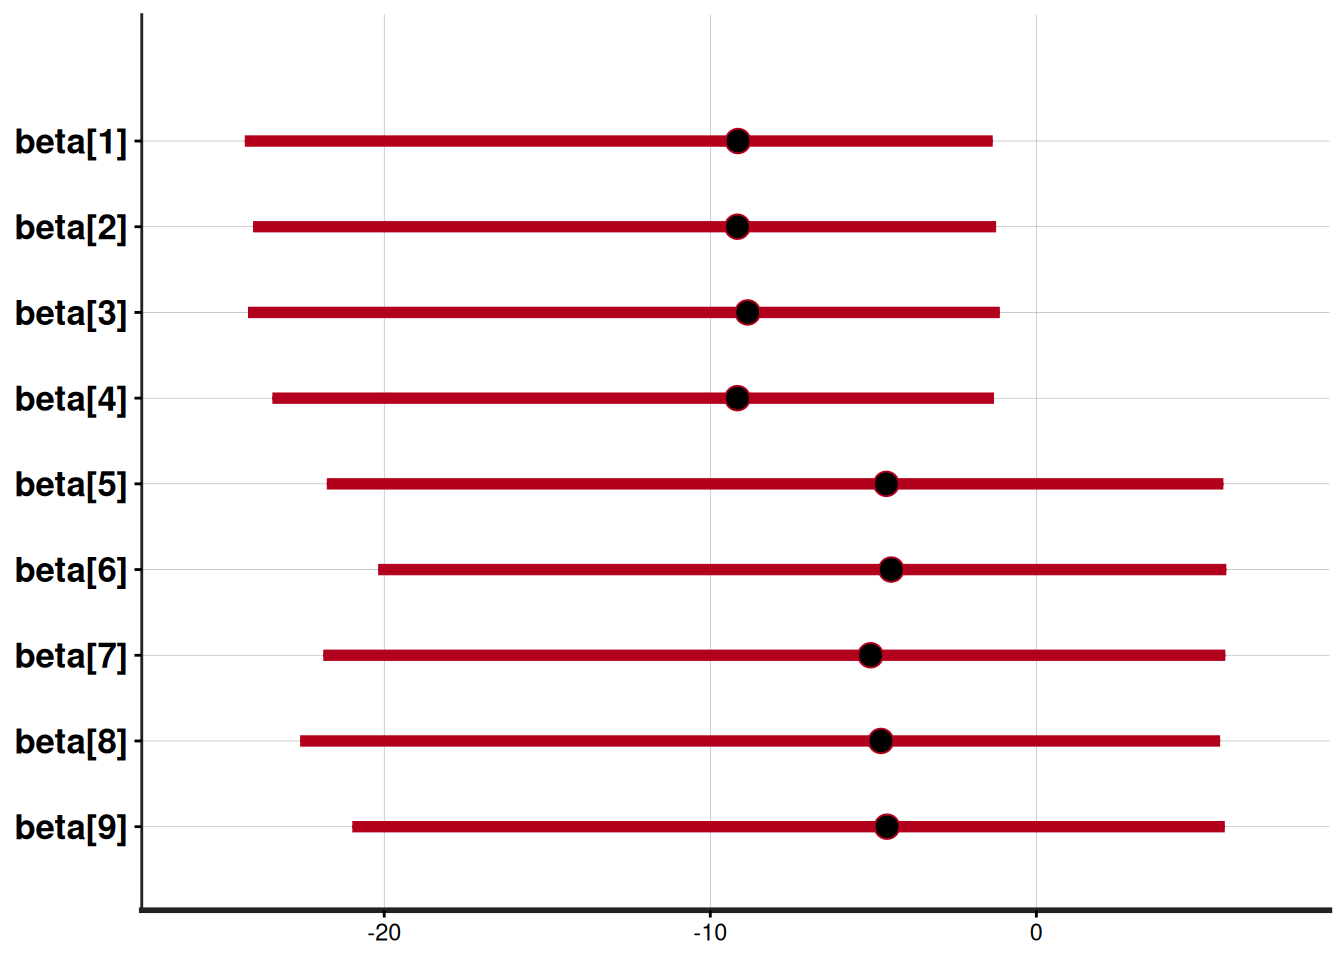
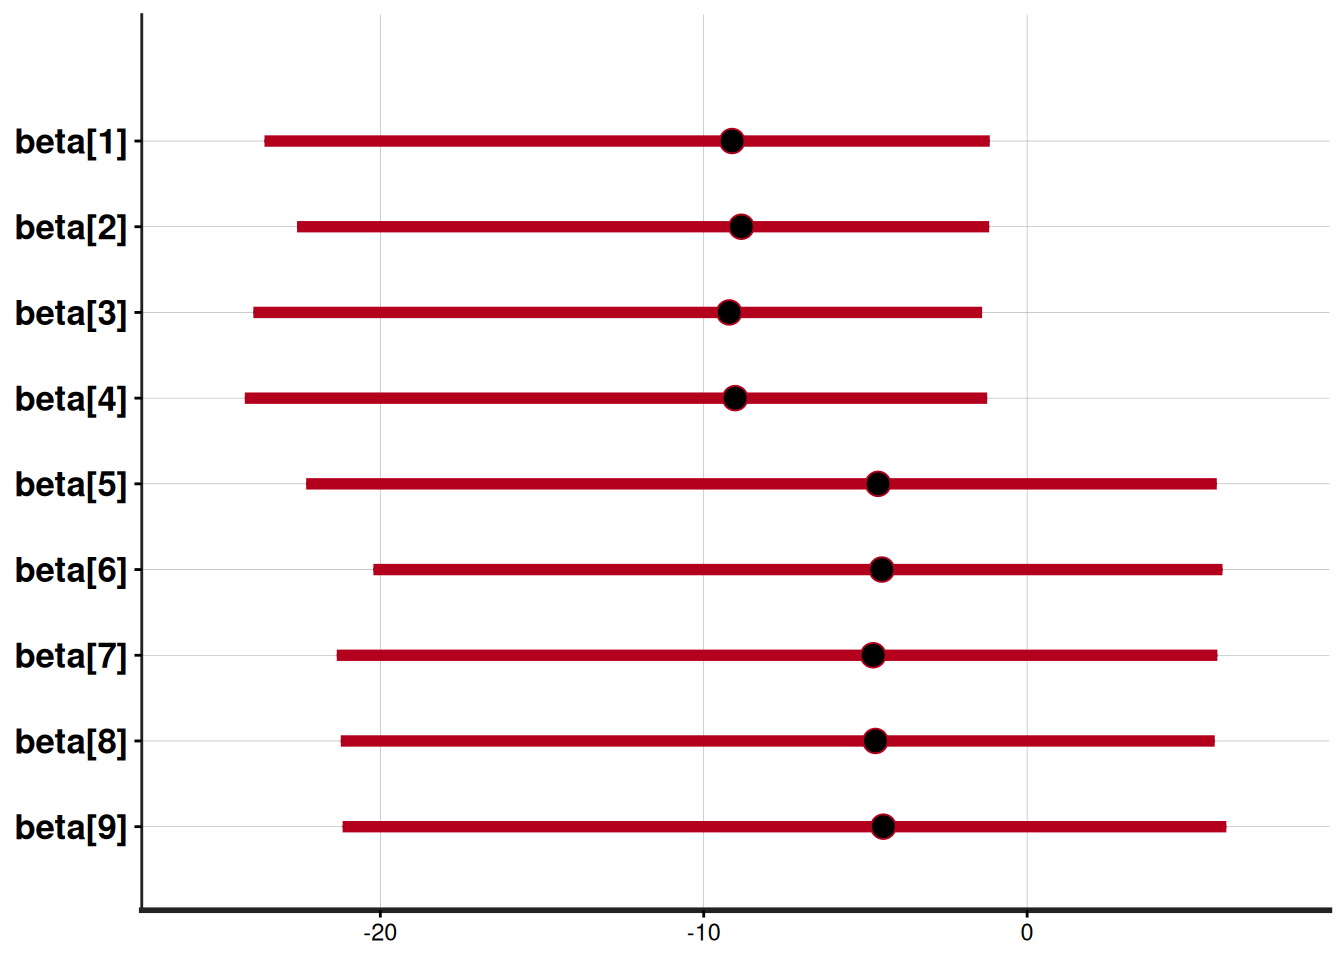
+temp

diff --git a/_book/models.html b/_book/models.html
@@ -769,25 +769,25 @@ $lp__
 <span id="cb21-20"><a href="#cb21-20" aria-hidden="true" tabindex="-1"></a><span class="fu">lapply</span>(resumo, head)</span></code></pre></div><button title="Copiar para a área de transferência" class="code-copy-button"><i class="bi"></i></button></div>
 <div class="cell-output cell-output-stdout">
 <pre><code>$alpha
-         media   mediana   hpd_min   hpd_max
-[1,] 0.3127242 0.3092214 0.2142132 0.4163889
+         media   mediana   hpd_min  hpd_max
+[1,] 0.3110312 0.3072045 0.2127144 0.413807
 
 $sigma
-        media  mediana  hpd_min  hpd_max
-[1,] 199.6129 196.3944 92.90144 309.5576
+       media mediana  hpd_min  hpd_max
+[1,] 198.412 192.098 93.16136 317.6752
 
 $S
          media   mediana   hpd_min   hpd_max
 [1,] 1.0000000 1.0000000 1.0000000 1.0000000
-[2,] 0.5807644 0.5788890 0.4715592 0.6939873
-[3,] 0.5105856 0.5081931 0.4126085 0.6105609
-[4,] 0.4668335 0.4647727 0.3782532 0.5570634
-[5,] 0.4348575 0.4331221 0.3604060 0.5244225
-[6,] 0.4096590 0.4078468 0.3349886 0.4866656
+[2,] 0.5790122 0.5763836 0.4693437 0.6923808
+[3,] 0.5090482 0.5056406 0.4109894 0.6094255
+[4,] 0.4654728 0.4616534 0.3794015 0.5585581
+[5,] 0.4336433 0.4297810 0.3528409 0.5180024
+[6,] 0.4085694 0.4050914 0.3327099 0.4864770
 
 $lp__
          media   mediana   hpd_min   hpd_max
-[1,] -465.8559 -465.5534 -467.8382 -464.8256</code></pre>
+[1,] -465.8763 -465.5841 -467.8836 -464.8248</code></pre>
 </div>
 </div>
 <div class="cell">
@@ -843,6 +843,42 @@ $lp__
 </section>
 <section id="análise-fatorial" class="level2" data-number="3.3">
 <h2 data-number="3.3" class="anchored" data-anchor-id="análise-fatorial"><span class="header-section-number">3.3</span> Análise fatorial</h2>
+<div class="cell">
+<details class="code-fold">
+<summary>Como obter os dados de chuva</summary>
+<div class="code-copy-outer-scaffold"><div class="sourceCode cell-code" id="cb24"><pre class="sourceCode r code-with-copy"><code class="sourceCode r"><span id="cb24-1"><a href="#cb24-1" aria-hidden="true" tabindex="-1"></a>pak<span class="sc">::</span><span class="fu">pak</span>(<span class="st">"carlosdemoura/meteobr"</span>)</span>
+<span id="cb24-2"><a href="#cb24-2" aria-hidden="true" tabindex="-1"></a><span class="fu">library</span>(meteobr)</span>
+<span id="cb24-3"><a href="#cb24-3" aria-hidden="true" tabindex="-1"></a><span class="fu">library</span>(tidyverse)</span>
+<span id="cb24-4"><a href="#cb24-4" aria-hidden="true" tabindex="-1"></a></span>
+<span id="cb24-5"><a href="#cb24-5" aria-hidden="true" tabindex="-1"></a>st <span class="ot">=</span> stations <span class="sc">|&gt;</span> <span class="fu">filter</span>(state <span class="sc">==</span> <span class="st">"Minas Gerais"</span>) <span class="sc">|&gt;</span> <span class="fu">pull</span>(station.id)</span>
+<span id="cb24-6"><a href="#cb24-6" aria-hidden="true" tabindex="-1"></a></span>
+<span id="cb24-7"><a href="#cb24-7" aria-hidden="true" tabindex="-1"></a>df <span class="ot">=</span></span>
+<span id="cb24-8"><a href="#cb24-8" aria-hidden="true" tabindex="-1"></a>  <span class="fu">get_data</span>(<span class="at">first.day =</span> <span class="st">"2025-01-01"</span>, <span class="at">last.day =</span> <span class="st">"2025-12-31"</span>, <span class="at">stations =</span> st, <span class="at">vars =</span> <span class="st">"temperature_air"</span>) <span class="sc">|&gt;</span></span>
+<span id="cb24-9"><a href="#cb24-9" aria-hidden="true" tabindex="-1"></a>  <span class="fu">filter</span>(station <span class="sc">%in%</span> st) <span class="sc">|&gt;</span></span>
+<span id="cb24-10"><a href="#cb24-10" aria-hidden="true" tabindex="-1"></a>  <span class="fu">mutate</span>(</span>
+<span id="cb24-11"><a href="#cb24-11" aria-hidden="true" tabindex="-1"></a>    <span class="at">time =</span> <span class="fu">substr</span>(time,<span class="dv">1</span>,<span class="dv">7</span>)</span>
+<span id="cb24-12"><a href="#cb24-12" aria-hidden="true" tabindex="-1"></a>  ) <span class="sc">|&gt;</span></span>
+<span id="cb24-13"><a href="#cb24-13" aria-hidden="true" tabindex="-1"></a>  <span class="fu">group_by</span>(station, time) <span class="sc">|&gt;</span></span>
+<span id="cb24-14"><a href="#cb24-14" aria-hidden="true" tabindex="-1"></a>  <span class="fu">summarise</span>(</span>
+<span id="cb24-15"><a href="#cb24-15" aria-hidden="true" tabindex="-1"></a>    <span class="at">temp =</span> <span class="fu">mean</span>(temperature_air, <span class="at">na.rm =</span> T),</span>
+<span id="cb24-16"><a href="#cb24-16" aria-hidden="true" tabindex="-1"></a>    <span class="at">.groups =</span> <span class="st">"drop"</span></span>
+<span id="cb24-17"><a href="#cb24-17" aria-hidden="true" tabindex="-1"></a>  ) <span class="sc">|&gt;</span></span>
+<span id="cb24-18"><a href="#cb24-18" aria-hidden="true" tabindex="-1"></a>  <span class="fu">rename</span>(<span class="at">mes =</span> <span class="st">"time"</span>, <span class="at">estacao =</span> <span class="st">"station"</span>)</span>
+<span id="cb24-19"><a href="#cb24-19" aria-hidden="true" tabindex="-1"></a></span>
+<span id="cb24-20"><a href="#cb24-20" aria-hidden="true" tabindex="-1"></a>st_w_na <span class="ot">=</span></span>
+<span id="cb24-21"><a href="#cb24-21" aria-hidden="true" tabindex="-1"></a>  df <span class="sc">|&gt;</span></span>
+<span id="cb24-22"><a href="#cb24-22" aria-hidden="true" tabindex="-1"></a>  <span class="fu">filter</span>(<span class="fu">is.na</span>(temp)) <span class="sc">|&gt;</span></span>
+<span id="cb24-23"><a href="#cb24-23" aria-hidden="true" tabindex="-1"></a>  <span class="fu">pull</span>(estacao) <span class="sc">|&gt;</span></span>
+<span id="cb24-24"><a href="#cb24-24" aria-hidden="true" tabindex="-1"></a>  <span class="fu">unique</span>()</span>
+<span id="cb24-25"><a href="#cb24-25" aria-hidden="true" tabindex="-1"></a></span>
+<span id="cb24-26"><a href="#cb24-26" aria-hidden="true" tabindex="-1"></a>df_wo_na <span class="ot">=</span> </span>
+<span id="cb24-27"><a href="#cb24-27" aria-hidden="true" tabindex="-1"></a>  df <span class="sc">|&gt;</span></span>
+<span id="cb24-28"><a href="#cb24-28" aria-hidden="true" tabindex="-1"></a>  <span class="fu">filter</span>(<span class="sc">!</span>estacao <span class="sc">%in%</span> st_w_na) <span class="sc">|&gt;</span></span>
+<span id="cb24-29"><a href="#cb24-29" aria-hidden="true" tabindex="-1"></a>  <span class="fu">pivot_wider</span>(<span class="at">values_from =</span> <span class="st">"temp"</span>, <span class="at">names_from =</span> <span class="st">"mes"</span>)</span>
+<span id="cb24-30"><a href="#cb24-30" aria-hidden="true" tabindex="-1"></a></span>
+<span id="cb24-31"><a href="#cb24-31" aria-hidden="true" tabindex="-1"></a><span class="fu">write.csv</span>(df_wo_na, <span class="st">"stuff/meteo.csv"</span>, <span class="at">row.names =</span> F)</span></code></pre></div><button title="Copiar para a área de transferência" class="code-copy-button"><i class="bi"></i></button></div>
+</details>
+</div>
 
 
 <div id="refs" class="references csl-bib-body hanging-indent" data-entry-spacing="0" role="list" style="display: none">
